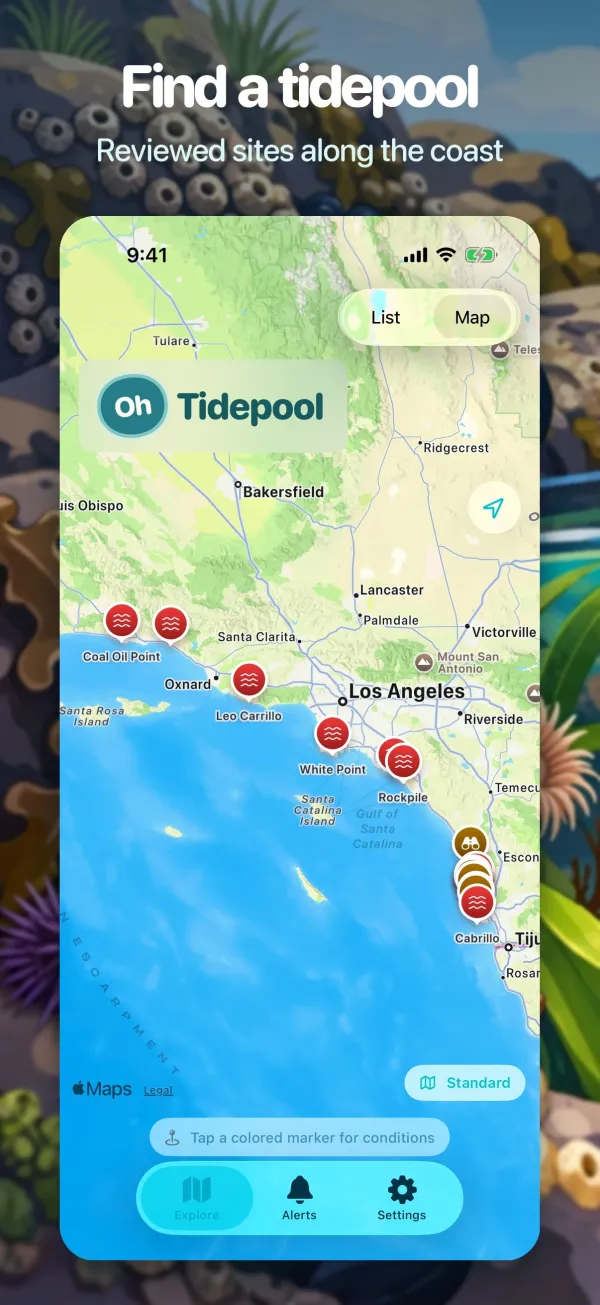
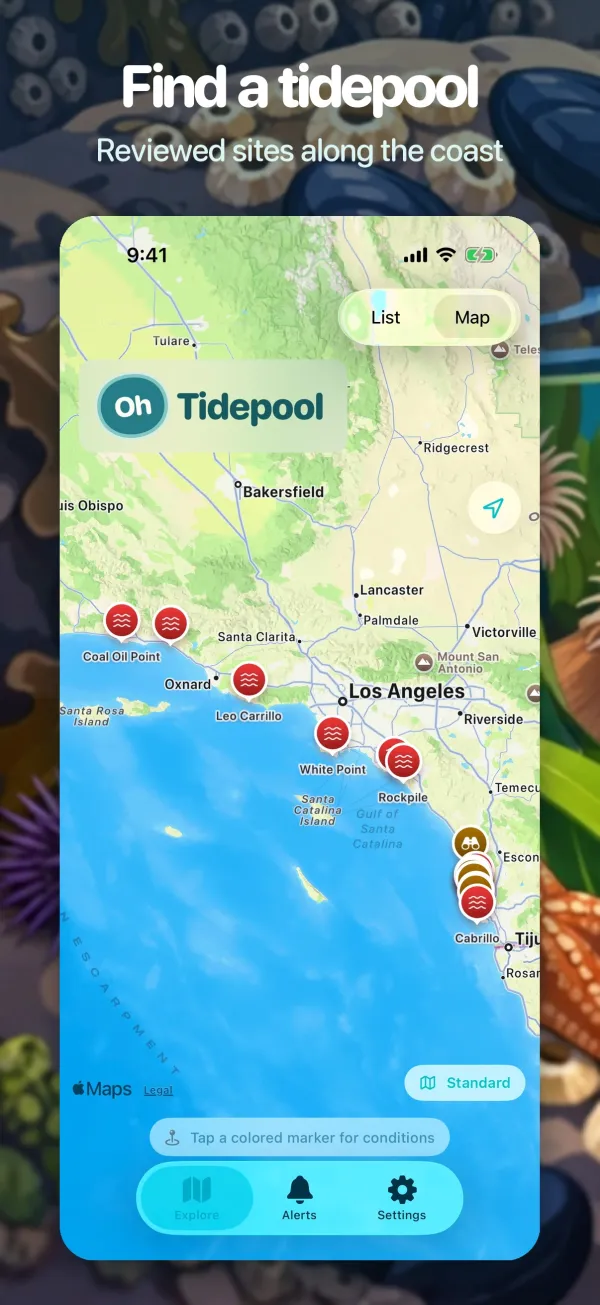
Swap in the final five App Store screenshots

diff --git a/index.html b/index.html
@@ -34,7 +34,7 @@
       </div>
     </section>
 
-    <section class="store-shots" aria-label="Oh Tidepool App Store screenshots"><ul><li><a href="./assets/store/01-map.webp"><img src="./assets/store/01-map.webp" width="600" height="1305" loading="lazy" alt="Find a tidepool: map of reviewed tidepool sites along the coast, with colored condition markers."></a></li><li><a href="./assets/store/02-site.webp"><img src="./assets/store/02-site.webp" width="600" height="1305" loading="lazy" alt="Know before you go: Dike Rock site page with visit guidance and an official beach hazards advisory."></a></li><li><a href="./assets/store/03-tips.webp"><img src="./assets/store/03-tips.webp" width="600" height="1305" loading="lazy" alt="Leave it better: Explore list with a daily tip about counting the trash you pick up, above site cards."></a></li><li><a href="./assets/store/04-alerts.webp"><img src="./assets/store/04-alerts.webp" width="600" height="1305" loading="lazy" alt="Catch the low tide: Alerts screen for choosing locations, timing, and notice for visit-plan alerts."></a></li></ul></section>
+    <section class="store-shots" aria-label="Oh Tidepool App Store screenshots"><ul><li><a href="./assets/store/01-map.webp"><img src="./assets/store/01-map.webp" width="600" height="1305" loading="lazy" alt="Find a tidepool: map of reviewed tidepool sites along the coast, with colored condition markers."></a></li><li><a href="./assets/store/02-tides.webp"><img src="./assets/store/02-tides.webp" width="600" height="1305" loading="lazy" alt="Plan the best hour: Dike Rock tide chart with seven days of NOAA tide predictions."></a></li><li><a href="./assets/store/03-alerts.webp"><img src="./assets/store/03-alerts.webp" width="600" height="1305" loading="lazy" alt="Catch the low tide: Alerts screen for choosing locations, timing, and notice for visit-plan alerts."></a></li><li><a href="./assets/store/04-site.webp"><img src="./assets/store/04-site.webp" width="600" height="1305" loading="lazy" alt="Know before you go: Dike Rock site page with visit guidance and an official beach hazards advisory."></a></li><li><a href="./assets/store/05-tips.webp"><img src="./assets/store/05-tips.webp" width="600" height="1305" loading="lazy" alt="Leave it better: Explore list with a daily tip about counting the trash you pick up, above site cards."></a></li></ul></section>
 
     <section class="section app-uses" id="uses" aria-labelledby="uses-title">
       <div class="section-heading"><p class="eyebrow">WHAT YOU CAN USE IT FOR</p><h2 id="uses-title">A little preparation.<br>A lot more to notice.</h2><p>The app brings planning and learning together, so you can arrive curious and leave the shore as you found it.</p></div>

diff --git a/site.css b/site.css
@@ -92,9 +92,9 @@ summary { cursor: pointer; min-height: 48px; padding: 16px 0; font-weight: 700; 
 .get .lede { margin: 0 auto 28px; }
 .hero-art { grid-area: art; width: 100%; height: auto; aspect-ratio: 16 / 9; object-fit: cover; border-radius: 12px; }
 .store-shots { max-width: 1280px; margin: 0 auto; padding: 0 40px 64px; }
-.store-shots ul { list-style: none; margin: 0; padding: 0; display: grid; grid-template-columns: repeat(4, 1fr); gap: 16px; }
+.store-shots ul { list-style: none; margin: 0; padding: 0; display: grid; grid-template-columns: repeat(5, 1fr); gap: 16px; }
 .store-shots img { display: block; width: 100%; height: auto; border-radius: 14px; }
-@media (max-width: 780px) { .store-shots { padding: 0 16px 40px; } .store-shots ul { grid-template-columns: repeat(2, 1fr); gap: 12px; } }
+@media (max-width: 780px) { .store-shots { padding: 0 16px 40px; } .store-shots ul { grid-template-columns: none; grid-auto-flow: column; grid-auto-columns: 62%; overflow-x: auto; scroll-snap-type: x mandatory; gap: 12px; } .store-shots li { scroll-snap-align: start; } }
 .qr-row { display: flex; flex-wrap: wrap; justify-content: center; gap: 32px; margin: 36px 0 8px; }
 .qr { margin: 0; display: grid; justify-items: center; gap: 10px; }
 .qr img { width: 180px; height: 180px; background: #fff; padding: 8px; border-radius: 8px; }
